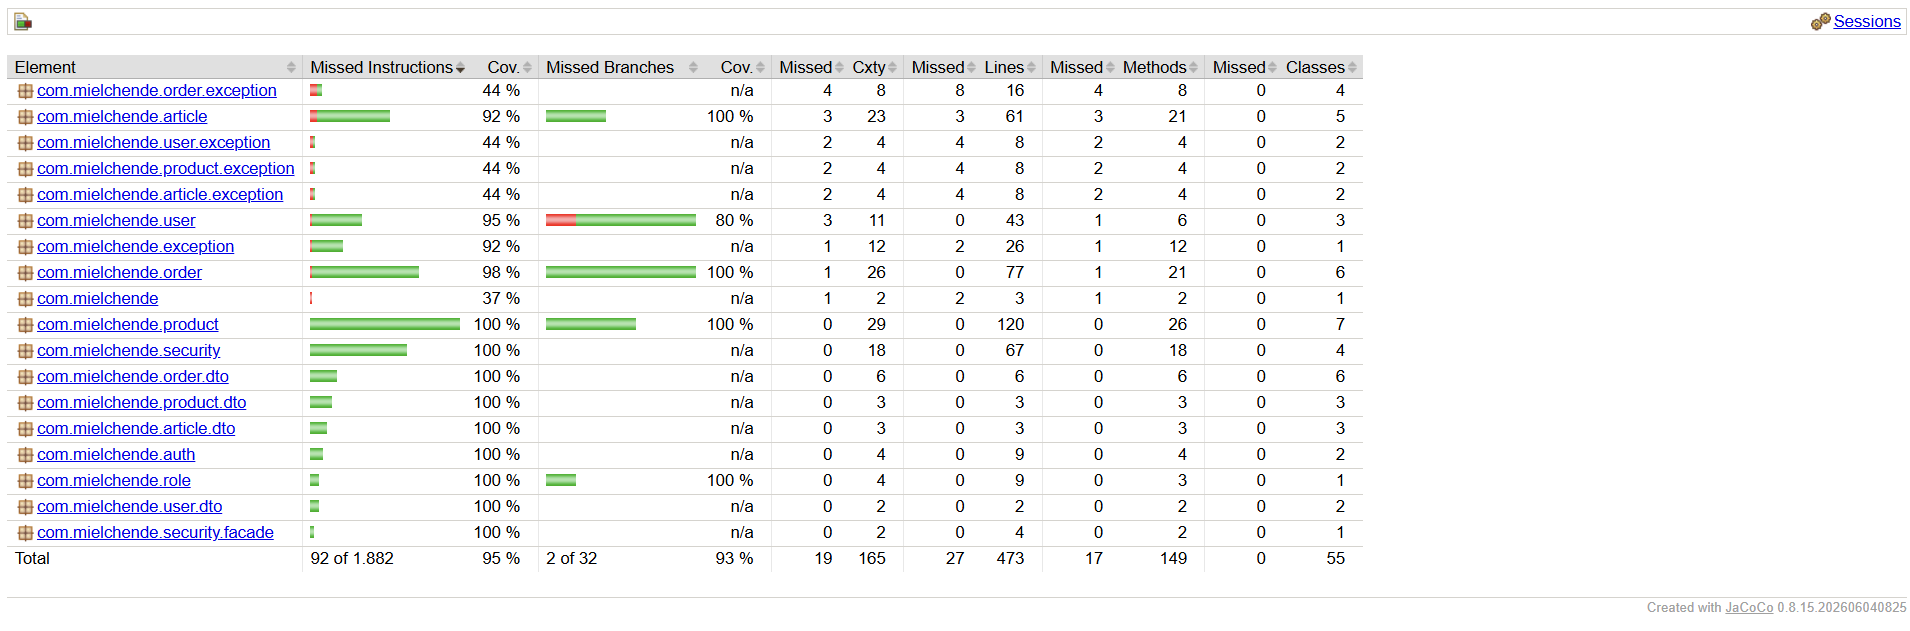
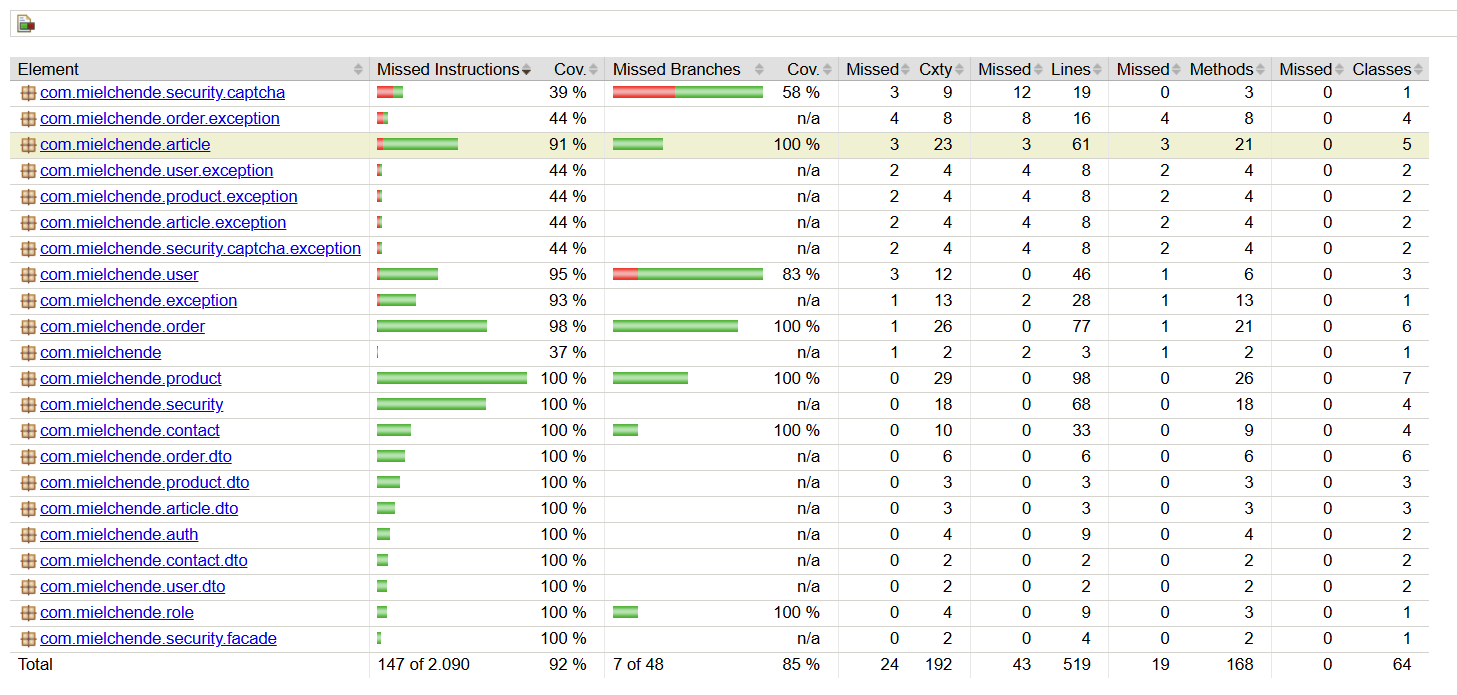
docs: update README with contact form, captcha and test coverage

diff --git a/README.md b/README.md
@@ -35,7 +35,9 @@ La API cubre:
 - **Registro e inicio de sesión** de clientes, con tokens JWT.
 - **Solicitudes de pedido** con varios productos, y consulta del historial propio ("Mis solicitudes").
 - **Actualidad**: artículos que el apicultor redacta desde el panel y que el público ve solo cuando están publicados.
-- **Panel de administración**: gestión del catálogo, de los artículos y de las solicitudes, que siguen el ciclo Recibido → Confirmado → Enviado. Las solicitudes y los artículos nunca se borran, para conservar el historial.
+- **Formulario de contacto**: el visitante deja su nombre, su correo y su mensaje, y el apicultor lo lee en el panel. Así el correo del negocio no se publica en la web, donde lo recogerían los bots.
+- **Captcha** (Cloudflare Turnstile) en el registro y en el formulario de contacto, para frenar los envíos automáticos.
+- **Panel de administración**: gestión del catálogo, de los artículos, de las solicitudes (que siguen el ciclo Recibido → Confirmado → Enviado) y lectura de los mensajes de contacto. Las solicitudes y los artículos nunca se borran, para conservar el historial.
 
 ## Tecnologías
 
@@ -43,7 +45,7 @@ La API cubre:
 |---|---|
 | Lenguaje | Java 21 |
 | Framework | Spring Boot 4.1 (Web MVC, Data JPA, Validation) |
-| Seguridad | Spring Security, OAuth2 Resource Server (JWT con HS512), BCrypt |
+| Seguridad | Spring Security, OAuth2 Resource Server (JWT con HS512), BCrypt, Cloudflare Turnstile (captcha) |
 | Base de datos | MySQL 8.4 en Docker, con Docker Compose |
 | Utilidades | Lombok |
 | Testing | JUnit 5, Mockito, MockMvc, Testcontainers (MySQL real) y JaCoCo (cobertura) |
@@ -57,21 +59,23 @@ El código está organizado **por funcionalidad** (*feature*), no por capas: cad
 src/main/java/com/mielchende
 ├── article/     Artículos de Actualidad (público y administración)
 ├── auth/        Registro e inicio de sesión
+├── contact/     Mensajes del formulario de contacto (envío público y lectura en el panel)
 ├── order/       Solicitudes de pedido (cliente y administración)
 ├── product/     Catálogo (público y administración)
 ├── role/        Roles ROLE_USER y ROLE_ADMIN
-├── security/    SecurityFilterChain, JWT, UserDetailsService y fachada de BCrypt
+├── security/    SecurityFilterChain, JWT, UserDetailsService, fachada de BCrypt
+│                y verificación del captcha (captcha/)
 ├── user/        Usuarios y administrador inicial
 └── exception/   GlobalExceptionHandler: errores uniformes { "message": "..." }
 ```
 
-Cada funcionalidad tiene sus propias excepciones de negocio (por ejemplo, `ProductNotFoundException`, `ArticleNotFoundException` o `InvalidStatusTransitionException`), que el `GlobalExceptionHandler` traduce al código HTTP correspondiente.
+Cada funcionalidad tiene sus propias excepciones de negocio (por ejemplo, `ProductNotFoundException`, `InvalidStatusTransitionException` o `InvalidCaptchaException`), que el `GlobalExceptionHandler` traduce al código HTTP correspondiente.
 
 ## Diagramas
 
 ### Diagrama entidad-relación
 
-Tablas de la base de datos y sus relaciones. Las líneas de las solicitudes se guardan aparte (`order_items`) porque una solicitud puede incluir varios productos. Los artículos son independientes: no se relacionan con ninguna otra tabla.
+Tablas de la base de datos y sus relaciones. Las líneas de las solicitudes se guardan aparte (`order_items`) porque una solicitud puede incluir varios productos. Los artículos y los mensajes de contacto son independientes: no se relacionan con ninguna otra tabla. Un mensaje de contacto no exige cuenta, así que no se vincula a ningún usuario.
 
 ```mermaid
 erDiagram
@@ -125,6 +129,13 @@ erDiagram
         varchar status "DRAFT o PUBLISHED"
         datetime created_at
         datetime published_at "vacío mientras es borrador"
+    }
+    CONTACT_MESSAGES {
+        bigint id PK
+        varchar name "hasta 100 caracteres"
+        varchar email
+        text message "hasta 2000 caracteres"
+        datetime created_at
     }
 ```
 
@@ -185,6 +196,13 @@ classDiagram
         -ArticleStatus status
         -LocalDateTime createdAt
         -LocalDateTime publishedAt
+    }
+    class ContactMessageEntity {
+        -Long id
+        -String name
+        -String email
+        -String message
+        -LocalDateTime createdAt
     }
     class ProductCategory {
         <<enumeration>>
@@ -361,8 +379,11 @@ Los datos se guardan en un volumen de Docker, así que se conservan entre arranq
 | `ADMIN_NAME` | Nombre del administrador inicial |
 | `ADMIN_EMAIL` | Email con el que inicia sesión el administrador |
 | `ADMIN_PASSWORD` | Contraseña inicial del administrador |
+| `TURNSTILE_SECRET_KEY` | Clave secreta de Cloudflare Turnstile para verificar el captcha |
 
 Docker Compose usa las variables de MySQL para crear el contenedor, y Spring Boot las usa para conectarse a él.
+
+**Sobre el captcha:** el `.env.example` trae la **clave secreta de prueba** de Cloudflare (`1x0000000000000000000000000000000AA`), que acepta siempre el token de prueba del frontend. Sirve para desarrollo, sin crear cuenta en Cloudflare. Para publicar la web hay que crear un *widget* en el panel de Cloudflare Turnstile y sustituirla por la clave real. Si falta la variable, la aplicación arranca, pero rechaza todos los registros y mensajes de contacto: el captcha **falla cerrado** (sin clave no se puede verificar a nadie). La verificación necesita conexión a internet, porque el backend consulta a Cloudflare.
 
 ## Endpoints de la API
 
@@ -372,7 +393,7 @@ Todas las rutas empiezan por `/api`. Los errores siempre llegan como `{ "message
 
 | Método | Ruta | Descripción |
 |---|---|---|
-| POST | `/auth/register` | Registro. Cuerpo `{ name, email, password }` (contraseña de 8 caracteres o más) → 201. Email ya registrado → 409 |
+| POST | `/auth/register` | Registro. Cuerpo `{ name, email, password, captchaToken }` (contraseña de 8 caracteres o más) → 201. Captcha no válido → 400. Email ya registrado → 409 |
 | POST | `/auth/login` | Credenciales por Basic Auth → `{ token }`. Credenciales incorrectas → 401 |
 
 El token dura **1 hora**. En el resto de peticiones se envía como `Authorization: Bearer <token>`.
@@ -384,6 +405,12 @@ El token dura **1 hora**. En el resto de peticiones se envía como `Authorizatio
 | GET | `/products` | Lista de productos |
 | GET | `/products/{id}` | Un producto. Si no existe → 404 |
 | GET | `/articles` | Artículos publicados, del más reciente al más antiguo. Los borradores nunca salen aquí |
+
+### Contacto (público)
+
+| Método | Ruta | Descripción |
+|---|---|---|
+| POST | `/contact` | Envía un mensaje `{ name, email, message, captchaToken }` → 201 sin cuerpo. Captcha no válido → 400 |
 
 ### Cliente (`ROLE_USER`)
 
@@ -421,13 +448,21 @@ El token dura **1 hora**. En el resto de peticiones se envía como `Authorizatio
 | PUT | `/admin/articles/{id}` | Edita los textos de un artículo |
 | PATCH | `/admin/articles/{id}/status` | Publica o despublica (`PUBLISHED` o `DRAFT`). No hay borrado |
 
+**Mensajes de contacto**
+
+| Método | Ruta | Descripción |
+|---|---|---|
+| GET | `/admin/contact-messages` | Todos los mensajes, del más reciente al más antiguo. Solo lectura: el apicultor responde desde su correo |
+
 ## Seguridad
 
 - **Autenticación sin estado (*stateless*)** con JWT firmado con HS512. El login usa Basic Auth una sola vez para obtener el token.
 - **Contraseñas cifradas con BCrypt**, a través de una fachada (`PasswordEncoderFacade`).
-- **Autorización por rol** en la `SecurityFilterChain`: el catálogo, los artículos publicados y el registro son públicos, las solicitudes son de `ROLE_USER` y todo `/api/admin/**` es de `ROLE_ADMIN`.
+- **Autorización por rol** en la `SecurityFilterChain`: el catálogo, los artículos publicados, el registro y el envío del formulario de contacto son públicos (solo el método que hace falta en cada ruta), las solicitudes son de `ROLE_USER` y todo `/api/admin/**` es de `ROLE_ADMIN`.
 - **Cada cliente solo ve sus solicitudes**: el backend obtiene el usuario del token, nunca de un id en la URL.
-- **Los artículos se guardan como texto plano**, sin HTML, y el frontend los muestra sin interpretarlos como HTML, para evitar ataques XSS.
+- **Captcha en el registro y en el contacto**: el servicio verifica el token con Cloudflare antes de guardar nada. Si no es válido, o no se puede verificar, la petición se rechaza (falla cerrado). En el registro se comprueba antes que el correo duplicado, para que un bot no pueda averiguar qué correos tienen cuenta.
+- **Correo del negocio fuera de la web**: el contacto se hace por formulario, para que los bots no lo recojan.
+- **Los artículos y los mensajes se guardan como texto plano**, sin HTML, y el frontend los muestra sin interpretarlos como HTML, para evitar ataques XSS.
 - **CORS** limitado al origen del frontend (`http://localhost:5173`), permitiendo la cabecera `Authorization`.
 - **Credenciales fuera del código**, en el `.env`.
 
@@ -441,12 +476,14 @@ El token dura **1 hora**. En el resto de peticiones se envía como `Authorizatio
 
 Los tests de integración usan **Testcontainers**: levantan un contenedor de **MySQL 8.4**, la misma versión que en desarrollo, en lugar de una base de datos en memoria como H2. Así se prueba contra el mismo motor que usa la aplicación.
 
-La batería tiene **88 tests**:
+La batería tiene **103 tests**:
 
-- **Tests unitarios** de los servicios, la regla de cambio de estado, la fachada de BCrypt y los inicializadores, con Mockito.
-- **Tests de integración** con MockMvc, que recorren toda la cadena (seguridad → controller → servicio → base de datos): registro y login, catálogo, artículos, solicitudes, panel de administración y control de acceso por rol (por ejemplo, un cliente recibe 403 en un endpoint de administración).
+- **Tests unitarios** de los servicios, la regla de cambio de estado, la fachada de BCrypt, el verificador del captcha y los inicializadores, con Mockito.
+- **Tests de integración** con MockMvc, que recorren toda la cadena (seguridad → controller → servicio → base de datos): registro y login, catálogo, artículos, solicitudes, formulario de contacto, panel de administración y control de acceso por rol (por ejemplo, un cliente recibe 403 en un endpoint de administración).
 
-[<img src="docs/screenshots/tests-backend.png" width="500" alt="Resultado de ./mvnw test con los 88 tests en verde">](docs/screenshots/tests-backend.png)
+Los tests **no llaman a Cloudflare**: el verificador del captcha se sustituye por un *mock* (`@MockitoBean`), que acepta un token de prueba y rechaza cualquier otro. Así se prueban los dos caminos sin depender de internet.
+
+[<img src="docs/screenshots/tests-backend.png" width="500" alt="Resultado de ./mvnw test con los 103 tests en verde">](docs/screenshots/tests-backend.png)
 
 ### Cobertura
 
@@ -454,15 +491,16 @@ La cobertura se mide con **JaCoCo**. El informe se genera solo al ejecutar `./mv
 
 | Medida | Cobertura |
 |---|---|
-| Instrucciones | 95 % |
-| Ramas | 93 % |
+| Instrucciones | 92 % |
+| Ramas | 85 % |
 
-La lógica de negocio (solicitudes, productos y seguridad) está cubierta al 98-100 %. Los porcentajes más bajos tienen una explicación:
+La lógica de negocio (solicitudes, productos, contacto y seguridad) está cubierta al 98-100 %. Los porcentajes más bajos tienen una explicación:
 
+- La llamada a la API de Cloudflare, en `TurnstileCaptchaVerifier`, no se ejecuta en los tests: es una decisión consciente, porque los tests sustituyen el verificador por un *mock* para no depender de internet. Sí se prueban los casos que lo rechazan antes de llamar (sin clave o sin token).
 - En las excepciones de negocio, el constructor con causa no se usa en el código, así que ningún test lo ejecuta.
 - La clase `MielchendeBackendApplication` solo arranca la aplicación desde su método `main`, y los tests de Spring no pasan por él.
 
-[<img src="docs/screenshots/coverage-backend.png" width="500" alt="Informe de cobertura de JaCoCo: 95 % de instrucciones y 93 % de ramas">](docs/screenshots/coverage-backend.png)
+[<img src="docs/screenshots/coverage-backend.png" width="500" alt="Informe de cobertura de JaCoCo: 92 % de instrucciones y 85 % de ramas">](docs/screenshots/coverage-backend.png)
 
 ## Decisiones técnicas
 
@@ -473,15 +511,19 @@ La lógica de negocio (solicitudes, productos y seguridad) está cubierta al 98-
 - **JWT en lugar de sesión**, para que la API sea *stateless*.
 - **La contraseña del registro llega sin codificar en Base64** (viaja por HTTPS en producción) y se cifra solo con BCrypt.
 - **Testcontainers en lugar de H2**, para que los tests prueben contra MySQL real.
+- **Formulario de contacto en lugar de un correo visible**, para que los bots no recojan la dirección del negocio. El envío responde 201 sin cuerpo: quien escribe no necesita recibir de vuelta el id ni la fecha de su mensaje.
+- **Captcha detrás de una interfaz** (`CaptchaVerifier`): los servicios no dependen de Cloudflare, y en los tests se sustituye por un *mock*. Cambiar de proveedor solo obligaría a escribir otra implementación.
+- **Cloudflare Turnstile en lugar de Google reCAPTCHA**, por ser gratuito y más respetuoso con la privacidad.
 - **Paquetes por funcionalidad**, siguiendo la convención actual de Spring.
 
 ## Próximos pasos
 
 Funcionalidades diseñadas en los flujos y registradas en Jira, pendientes de implementar:
 
-- **Notificaciones por email** al cliente y al apicultor en cada cambio de estado de una solicitud.
-- **Página de detalle y categorías para los artículos** de Actualidad.
-- **Formulario de contacto**, con los mensajes visibles en el panel de administración.
+- **Notificaciones por email** al cliente y al apicultor en cada cambio de estado de una solicitud, y al apicultor cuando llega un mensaje de contacto.
+- **Mensajes leídos y sin leer** en el panel, con un contador de mensajes nuevos.
+- **Categorías para los artículos** de Actualidad.
+- **Subida de imágenes** desde el panel (hoy se indica la URL de la imagen).
 - **Cambio y recuperación de contraseña.**
 - **Productos favoritos** en el área de cliente.
 - **Valoraciones de productos**, solo para clientes con una solicitud enviada.
@@ -489,7 +531,8 @@ Funcionalidades diseñadas en los flujos y registradas en Jira, pendientes de im
 Mejoras técnicas:
 
 - **Configuración propia para los tests**, para que no dependan del `.env`.
-- **Despliegue** en un servidor con HTTPS.
+- **Declarar el agente de Mockito** en la configuración de Maven, para eliminar los avisos de carga dinámica de agentes que muestra Java 21 al ejecutar los tests.
+- **Despliegue** en un servidor con HTTPS, con las claves reales de Cloudflare Turnstile.
 
 ## Autora
 
